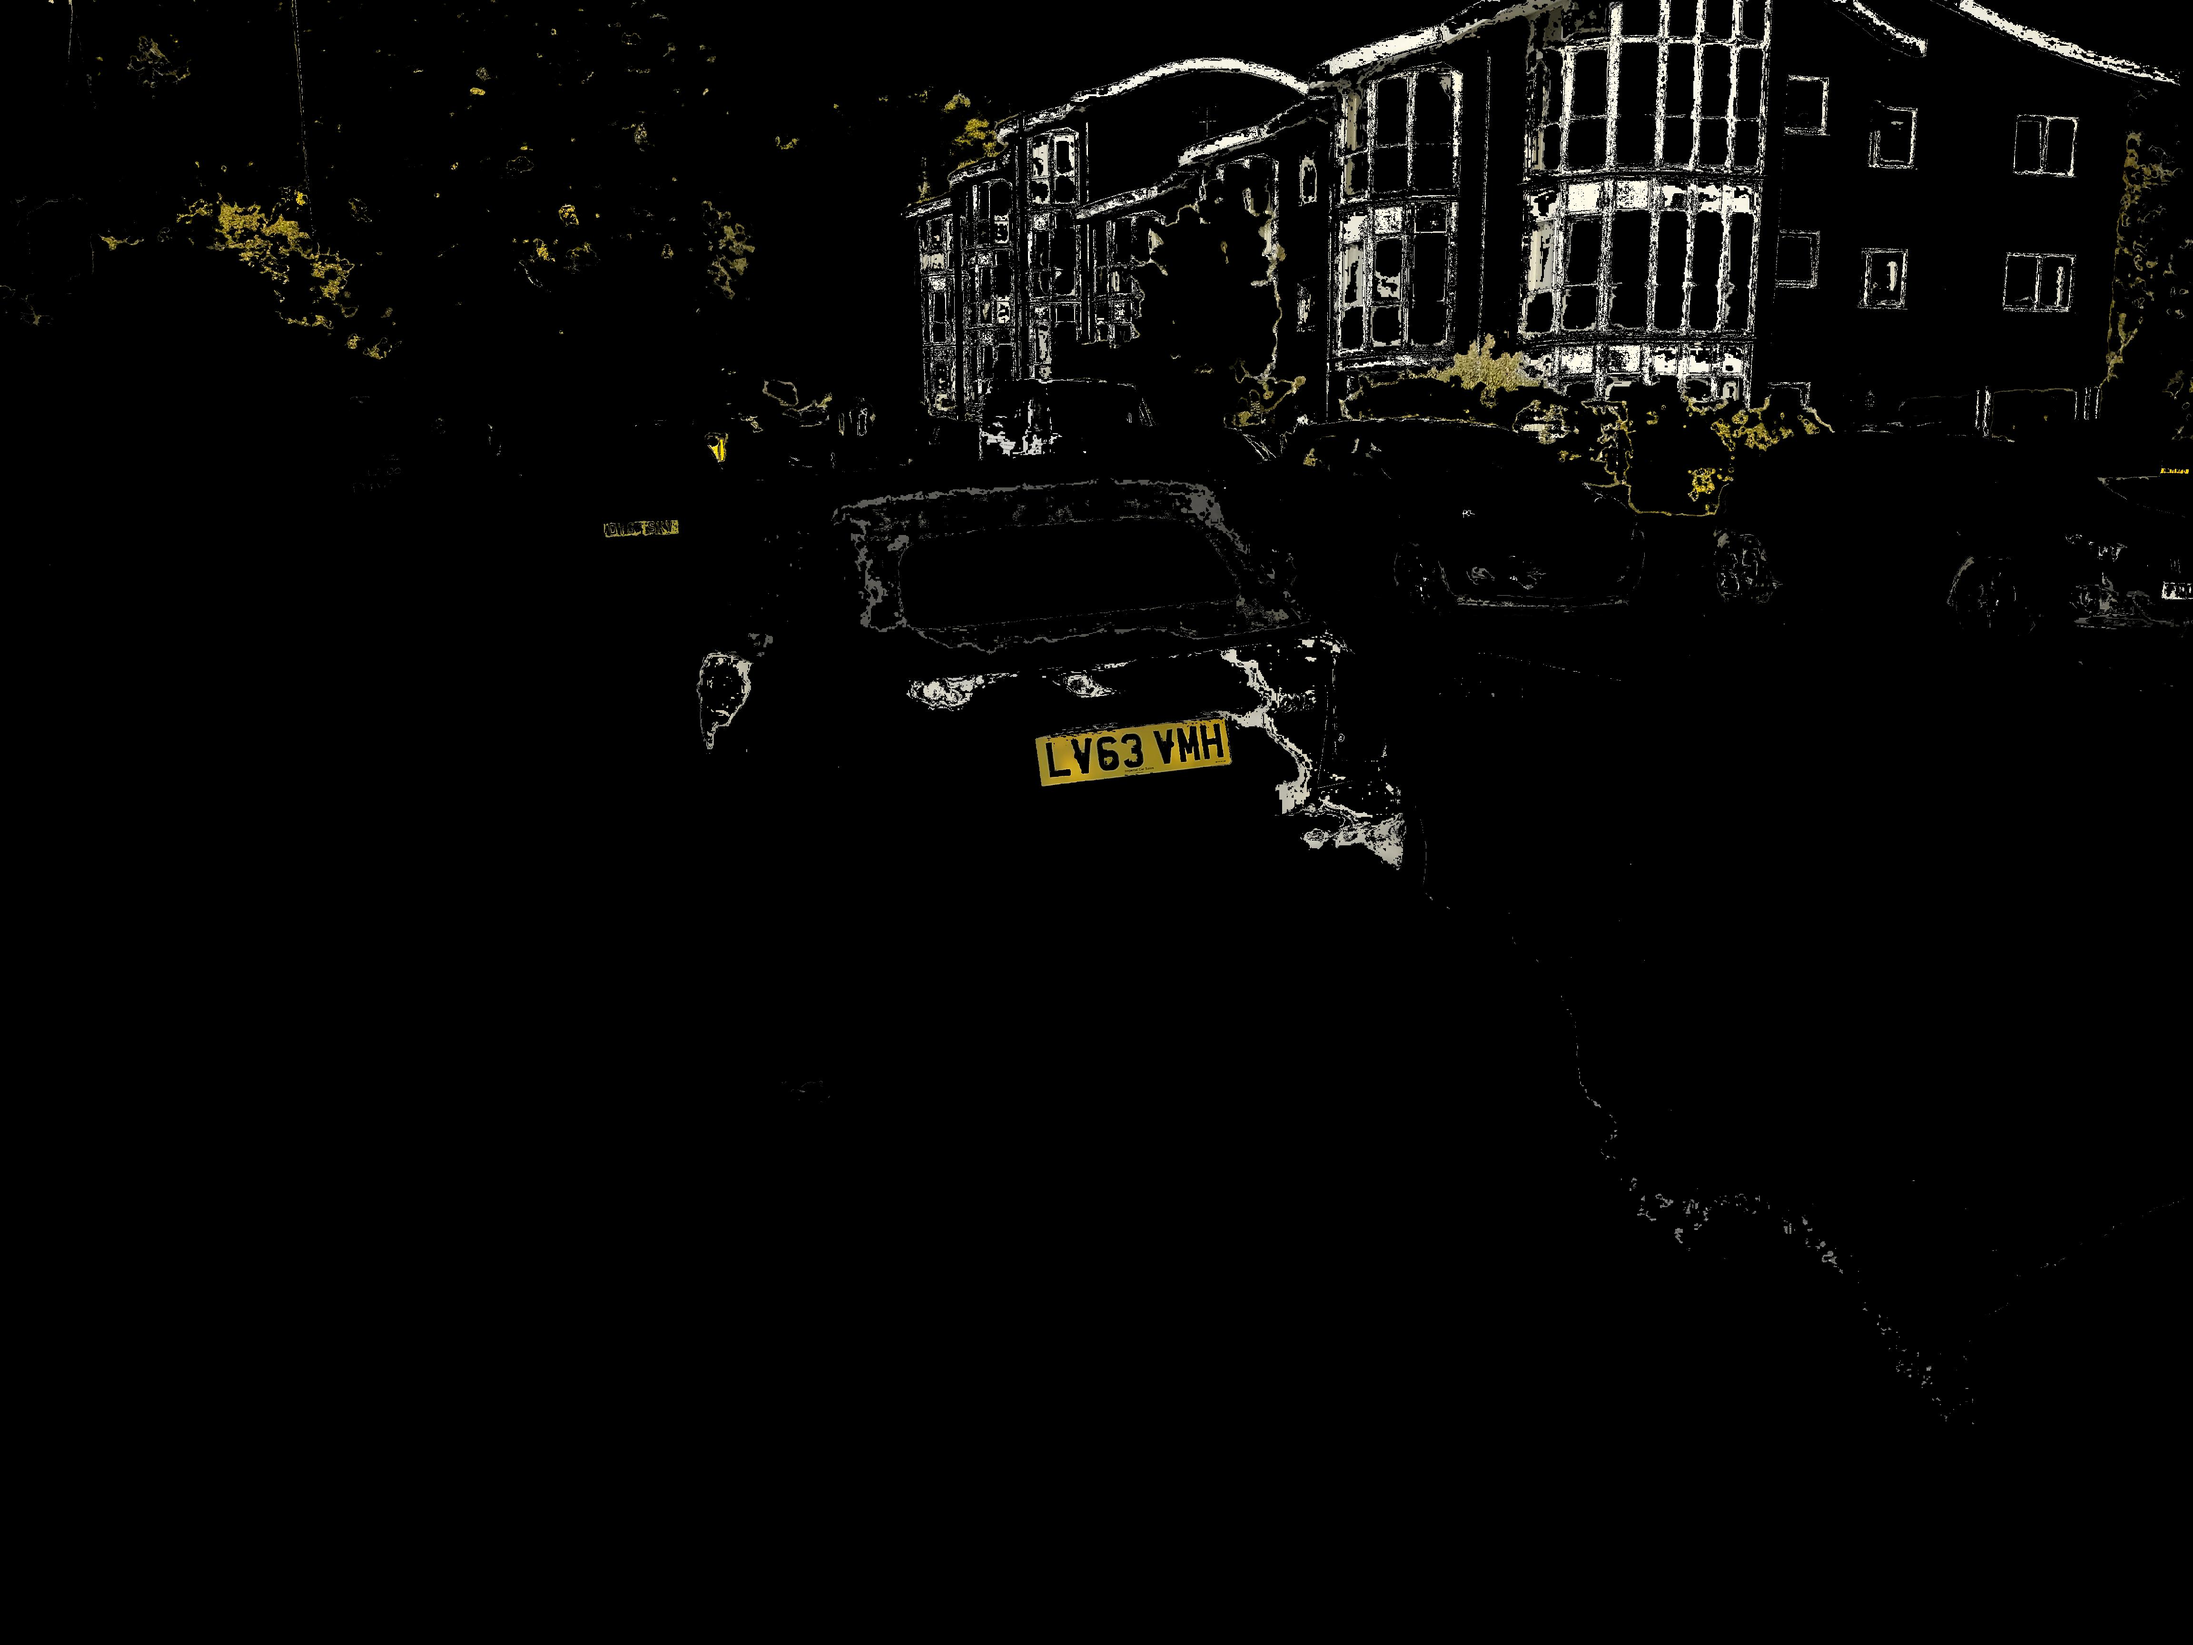
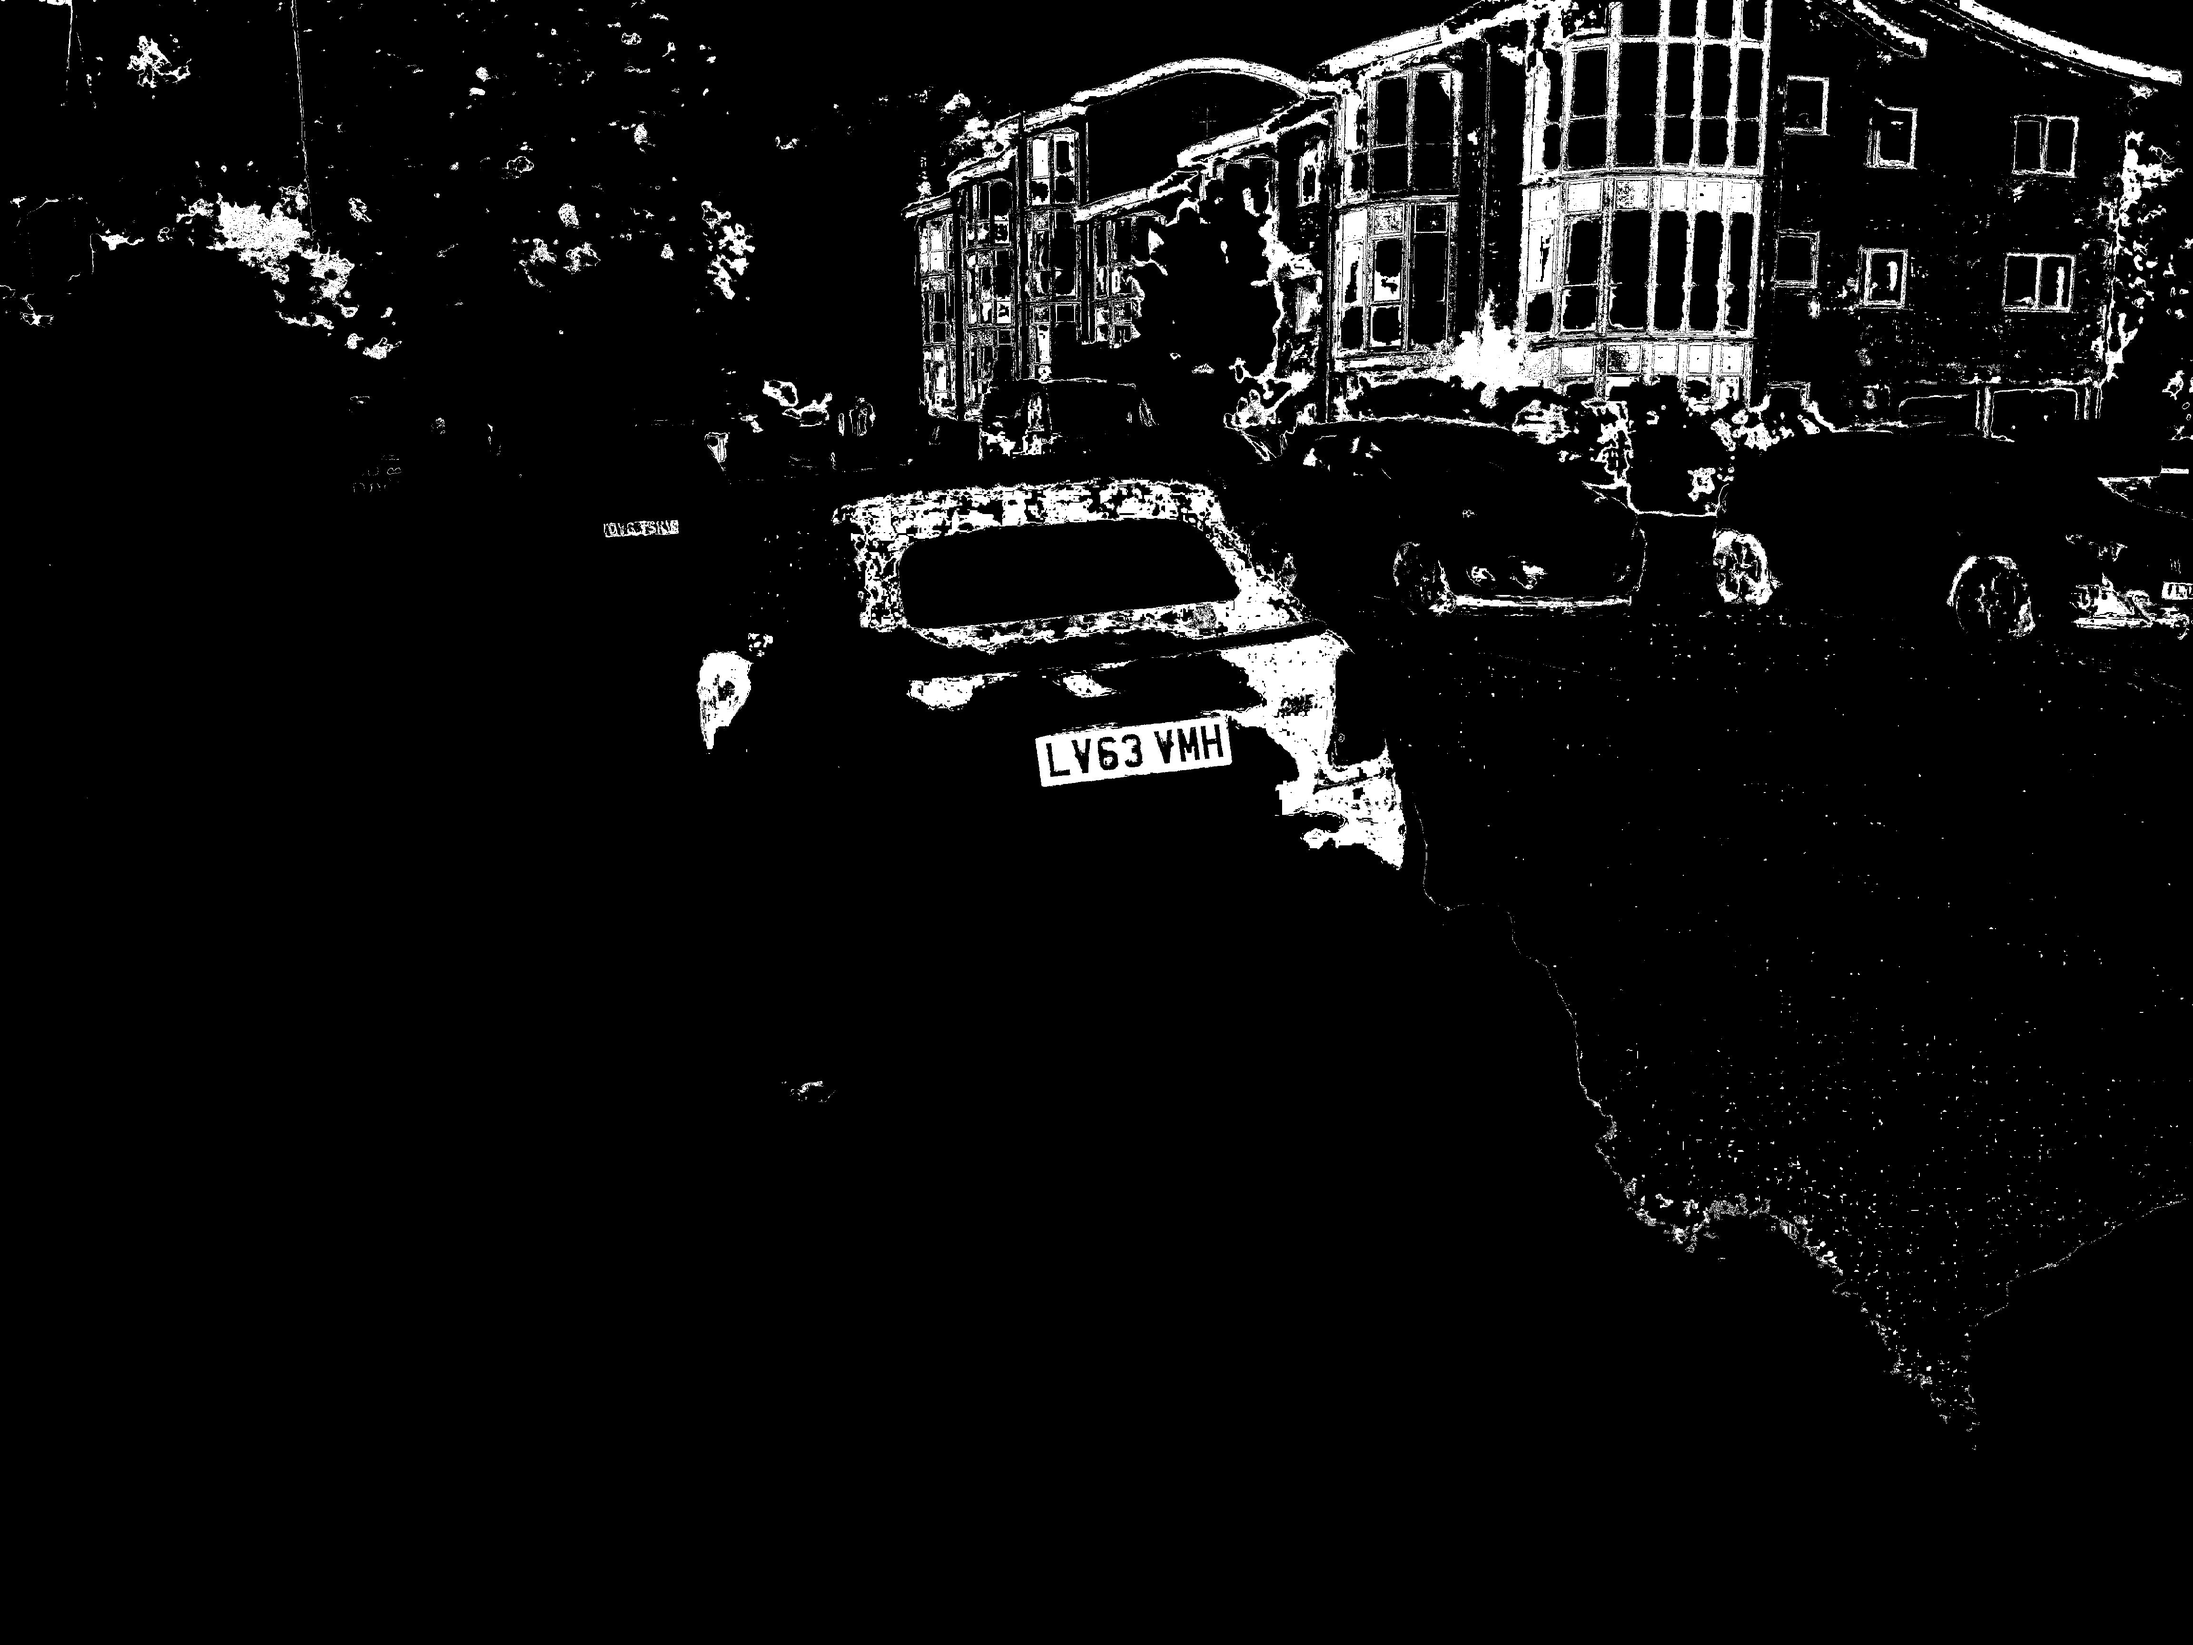
tried new method with setting filtered pixels black and passing pixels black

diff --git a/customized colour blackout testing/colourfilter.m b/customized colour blackout testing/colourfilter.m
@@ -53,14 +53,19 @@ function I = colourfilter(image, range)
     %I(:,:,2) = mask .* I(:,:,2);
     %I(:,:,3) = mask .* I(:,:,3);
 
-    strikeoutValue = 0;
+    maskPosRepl = 1;
+    maskNegRepl = 0;
 
     for i = 1:size(I,1)
         for j = 1:size(I,2)
-            if mask(i,j) == 0
-                I(i,j,1) = strikeoutValue;
-                I(i,j,2) = strikeoutValue;
-                I(i,j,3) = strikeoutValue;
+            if mask(i,j) == 1
+                I(i,j,1) = maskPosRepl;
+                I(i,j,2) = maskPosRepl;
+                I(i,j,3) = maskPosRepl;
+            else
+                I(i,j,1) = maskNegRepl;
+                I(i,j,2) = maskNegRepl;
+                I(i,j,3) = maskNegRepl;
             end
         end
     end

diff --git a/customized colour blackout testing/imgSub.m b/customized colour blackout testing/imgSub.m
@@ -5,22 +5,16 @@ img2 = flip(flip(imread("IMG2.jpg"),1), 2);
 img1 = im2double(img1);
 img2 = im2double(img2);
 
-filterRange = [45 55];
+filterRange = [40 55];
 
 fil1 = colourfilter(img1, filterRange);
 fil2 = colourfilter(img2, filterRange);
 
-fil1gray = rgb2gray(fil1);
-fil2gray = rgb2gray(fil2);
-
-out1 = imsubtract(imcomplement(fil1gray), fil2gray);
-out2 = imsubtract(imcomplement(fil2gray), fil1gray);
+out1 = imsubtract(imcomplement(fil1), fil2);
+out2 = imsubtract(imcomplement(fil2), fil1);
 
 imwrite(fil1, "fil1.jpg");
 imwrite(fil2, "fil2.jpg");
-
-imwrite(fil1gray, "filgray1.jpg");
-imwrite(fil2gray, "filgray2.jpg");
 
 imwrite(out1, "out1.jpg");
 imwrite(out2, "out2.jpg");
